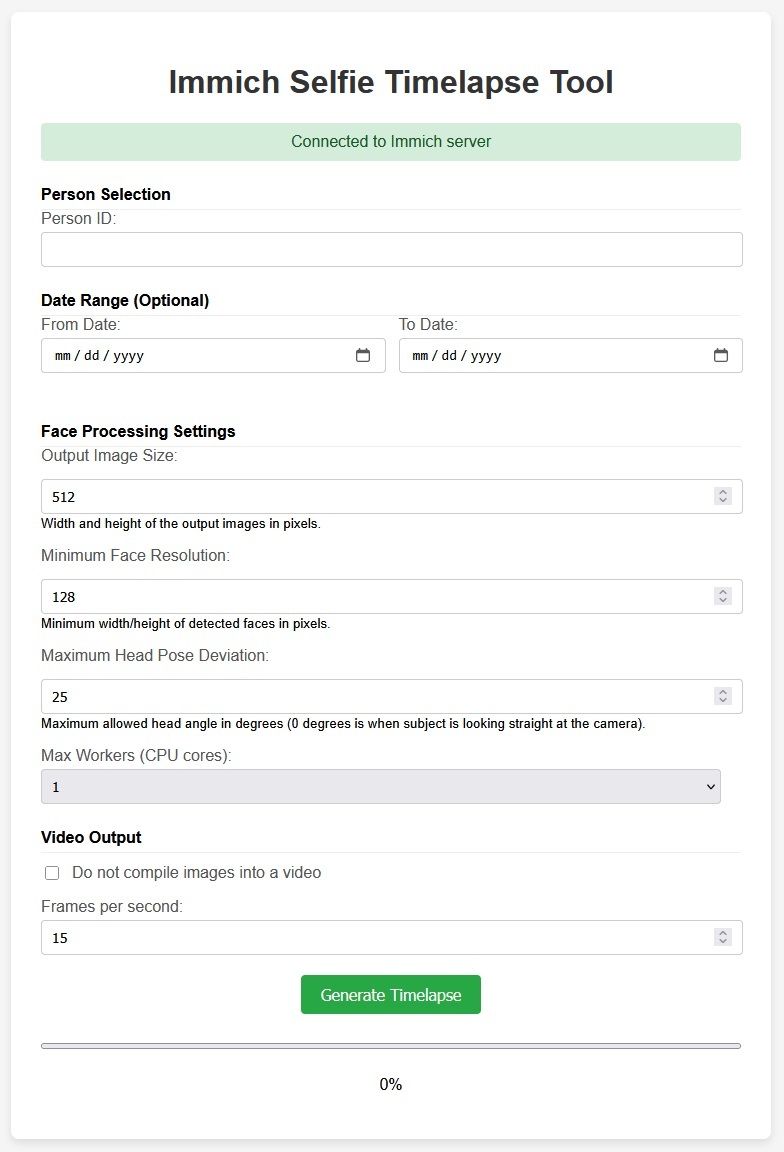
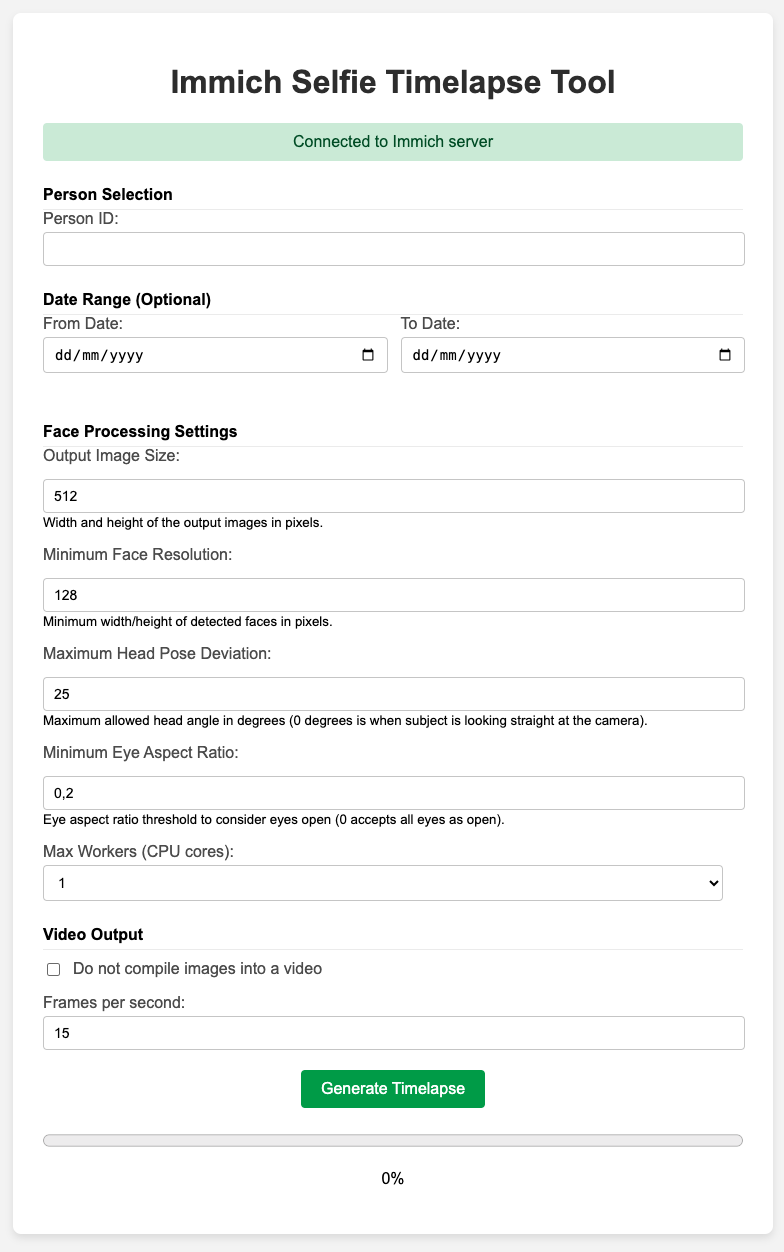
Add setting for eye visibility (#18)
Feature added by: Thomas Larger <tlarger@masae-analytics.com>

diff --git a/templates/index.html b/templates/index.html
@@ -203,6 +203,11 @@
                 <small class="form-text text-muted">Maximum allowed head angle in degrees (0 degrees is when subject is looking straight at the camera).</small>
             </div>
             <div class="form-group">
+                <label for="ear_threshold">Minimum Eye Aspect Ratio:</label>
+                <input type="number" step="0.01" name="ear_threshold" value="{{ request.form.ear_threshold or 0.2 }}" min="0" max="1">
+                <small class="form-text text-muted">Eye aspect ratio threshold to consider eyes open (0 accepts all eyes as open).</small>
+            </div>
+            <div class="form-group">
                 <label>
                     Max Workers (CPU cores):
                     <select name="max_workers">

diff --git a/image_processing.py b/image_processing.py
@@ -55,6 +55,7 @@ class AppConfig:
     left_eye_pos: Tuple[float, float]
     date_from: str
     date_to: str
+    ear_threshold: float
 
 
 def initialize_worker(landmark_model_path: str) -> None:
@@ -334,7 +335,7 @@ def calculate_eye_alignment_transform(
     # Convert to 2x3 matrix for OpenCV
     return M[:2, :]
 
-def crop_and_align_face(image, face_data, resize_size, face_resolution_threshold, pose_threshold, left_eye_pos):
+def crop_and_align_face(image, face_data, resize_size, face_resolution_threshold, pose_threshold, left_eye_pos, ear_threshold):
     """
     Aligns a face in an image by positioning the eyes at specified locations.
 
@@ -345,6 +346,7 @@ def crop_and_align_face(image, face_data, resize_size, face_resolution_threshold
         face_resolution_threshold (int): Minimum face resolution threshold.
         pose_threshold (float): Maximum allowed head pose deviation.
         left_eye_pos (tuple): Desired position of the left eye in the output as percentages (x, y).
+        ear_threshold (float): Threshold for eye visibility.
 
     Returns:
         PIL.Image or None: The aligned face image if successful, None otherwise.
@@ -361,7 +363,7 @@ def crop_and_align_face(image, face_data, resize_size, face_resolution_threshold
             return None
 
         # Check if both eyes are visible
-        if not check_eye_visibility(landmarks['left_eye'], landmarks['right_eye']):
+        if not check_eye_visibility(landmarks['left_eye'], landmarks['right_eye'], ear_threshold):
             logger.info("Eyes are too closed")
             return None
 
@@ -443,7 +445,8 @@ def process_asset_worker(asset, config: AppConfig):
         resize_size=config.resize_size,
         face_resolution_threshold=config.face_resolution_threshold,
         pose_threshold=config.pose_threshold,
-        left_eye_pos=config.left_eye_pos
+        left_eye_pos=config.left_eye_pos,
+        ear_threshold=config.ear_threshold,
     )
 
     if aligned_face is None:

diff --git a/main.py b/main.py
@@ -33,6 +33,7 @@ class AppConfig:
     left_eye_pos: Tuple[float, float] = (0.35, 0.4)
     date_from: str = None
     date_to: str = None
+    ear_threshold: float = 0.2
 
 # Initialize Flask app
 app = Flask(__name__)
@@ -165,6 +166,7 @@ def index() -> str:
             config.pose_threshold = float(request.form.get("pose_threshold"))
             config.date_from = request.form.get("date_from")
             config.date_to = request.form.get("date_to")
+            config.ear_threshold = float(request.form.get("ear_threshold", 0.2))
             max_workers = int(request.form.get("max_workers"))
             do_not_compile_video = request.form.get("do_not_compile_video") == "on"
             framerate = int(request.form.get("framerate", 15))
